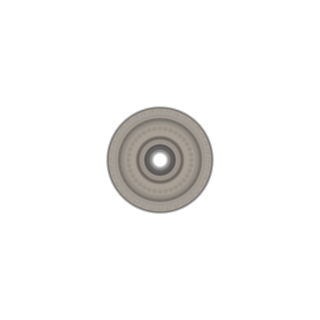
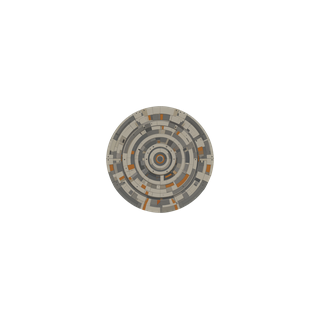
art: 炮塔底座与炮头改用构成主义图案
- 新增 tools/generate_constructivist_art.py，用本地 ComfyUI 出构成主义风格的
  炮塔底座（同心断弧、斜切装甲）与炮头（沿炮管轴线的矩形装甲块），绿幕出图。
- 新增 tools/process_constructivist_art.py，复用 process_ui_assets 的抠像与
  调色，按既有 320×320 / 320×384 尺寸和 PIVOT_Y=320 枢轴对齐，重新生成
  turret_base_field.png、turret_head_field.png 和 256×256 商店图标 turret.png。
- 同步更新 README 里的 image.png 截图。

Changed region(s): [[0.3125, 0.3125, 0.6875, 0.6875]]

diff --git a/tools/process_constructivist_art.py b/tools/process_constructivist_art.py
@@ -1,0 +1,76 @@
+#!/usr/bin/env python3
+"""Fit constructivist turret samples to the existing pivots and shop icon."""
+
+from __future__ import annotations
+
+from pathlib import Path
+
+from PIL import Image
+
+from process_ui_assets import _body_center, _cut_chroma, _tint_base
+
+ROOT = Path(__file__).resolve().parents[1]
+SOURCE = ROOT / "assets" / "ui" / "source"
+TARGET = ROOT / "assets" / "ui"
+BASE_SIZE = 320
+HEAD_SIZE = (320, 384)
+PIVOT_Y = 320
+
+
+def latest(name: str) -> Path:
+    paths = sorted(SOURCE.glob(f"{name}_*.png"))
+    if not paths:
+        raise FileNotFoundError(f"No generated {name}_*.png found")
+    return paths[-1]
+
+
+def process_base() -> Image.Image:
+    image = _cut_chroma(Image.open(latest("construct_turret_base")))
+    bounds = image.getchannel("A").getbbox()
+    if bounds is None:
+        raise ValueError("Empty turret base")
+    image = image.crop(bounds)
+    scale = 108.0 / image.width
+    image = image.resize((round(image.width * scale), round(image.height * scale)), Image.Resampling.LANCZOS)
+    canvas = Image.new("RGBA", (BASE_SIZE, BASE_SIZE), (0, 0, 0, 0))
+    canvas.alpha_composite(image, ((BASE_SIZE - image.width) // 2, (BASE_SIZE - image.height) // 2))
+    canvas = _tint_base(canvas)
+    canvas.save(TARGET / "turret_base_field.png", optimize=True)
+    return canvas
+
+
+def process_head() -> Image.Image:
+    image = _cut_chroma(Image.open(latest("construct_turret_head")))
+    bounds = image.getchannel("A").getbbox()
+    if bounds is None:
+        raise ValueError("Empty turret head")
+    image = image.crop(bounds)
+    body_center_y = _body_center(image.getchannel("A"))
+    scale = 77.0 / image.width
+    image = image.resize((round(image.width * scale), round(image.height * scale)), Image.Resampling.LANCZOS)
+    canvas = Image.new("RGBA", HEAD_SIZE, (0, 0, 0, 0))
+    canvas.alpha_composite(image, (round(BASE_SIZE * 0.5 - image.width * 0.5), round(PIVOT_Y - body_center_y * scale)))
+    canvas.save(TARGET / "turret_head_field.png", optimize=True)
+    return canvas
+
+
+def make_icon(base: Image.Image, head: Image.Image) -> None:
+    icon = Image.new("RGBA", (320, 704), (0, 0, 0, 0))
+    icon.alpha_composite(base, (0, PIVOT_Y - BASE_SIZE // 2))
+    icon.alpha_composite(head)
+    bounds = icon.getchannel("A").getbbox()
+    pad = 12
+    icon = icon.crop((max(0, bounds[0] - pad), max(0, bounds[1] - pad), min(icon.width, bounds[2] + pad), min(icon.height, bounds[3] + pad)))
+    icon = icon.resize((256, 256), Image.Resampling.LANCZOS)
+    icon.save(TARGET / "turret.png", optimize=True)
+
+
+def main() -> None:
+    base = process_base()
+    head = process_head()
+    make_icon(base, head)
+    print("saved constructivist turret base, head and icon")
+
+
+if __name__ == "__main__":
+    main()

diff --git a/tools/generate_constructivist_art.py b/tools/generate_constructivist_art.py
@@ -1,0 +1,41 @@
+#!/usr/bin/env python3
+"""Generate constructivist-pattern turret samples through local ComfyUI."""
+
+from generate_defense_art import generate
+
+PRESETS = {
+    "construct_turret_base": (
+        104729,
+        "Single isolated 2D game sprite of a circular turret mounting plate, strict orthographic "
+        "top-down view, flat even lighting. Russian constructivist geometric pattern language: "
+        "eccentric concentric rings, interrupted circular arcs, diagonal partitions, rectangular "
+        "cut-ins, intersecting straight axes and deliberate negative space. The pattern is "
+        "integrated into the armor panels, not a printed logo. Warm ivory armor, graphite gray "
+        "metal and the same restrained signal orange accents as the reference game, crisp hard-edged "
+        "cel shading, clean large shapes, asymmetrical balance, no realistic clutter, no tiny bolts. "
+        "Perfectly centered on a uniform vivid chroma key green background with generous margins. "
+        "No turret body, no gun barrel, no text, no letters, no numbers, no logo, no UI, no extra objects."
+    ),
+    "construct_turret_head": (
+        104741,
+        "Single isolated 2D game sprite of a turret upper body without any mounting plate, strict "
+        "orthographic top-down view, one narrow straight gun barrel pointing directly upward along "
+        "the vertical center axis. Russian constructivist geometric pattern language: rectangular "
+        "receiver blocks organized along the barrel axis, diagonal armor divisions, offset trapezoid "
+        "panels, intersecting straight lines, stepped negative space and asymmetrical balance. "
+        "Patterns are actual armor panel divisions, not decals. Warm ivory armor, graphite gray "
+        "mechanisms and restrained signal orange accents, crisp hard-edged cel shading, clean large "
+        "shapes, no realistic clutter, no tiny bolts. Centered on a uniform vivid chroma key green "
+        "background with the entire barrel and body visible. No base, no text, no letters, no numbers, "
+        "no logo, no UI, no extra objects."
+    ),
+}
+
+
+def main() -> None:
+    for name, (seed, prompt) in PRESETS.items():
+        generate(name, seed, prompt)
+
+
+if __name__ == "__main__":
+    main()
